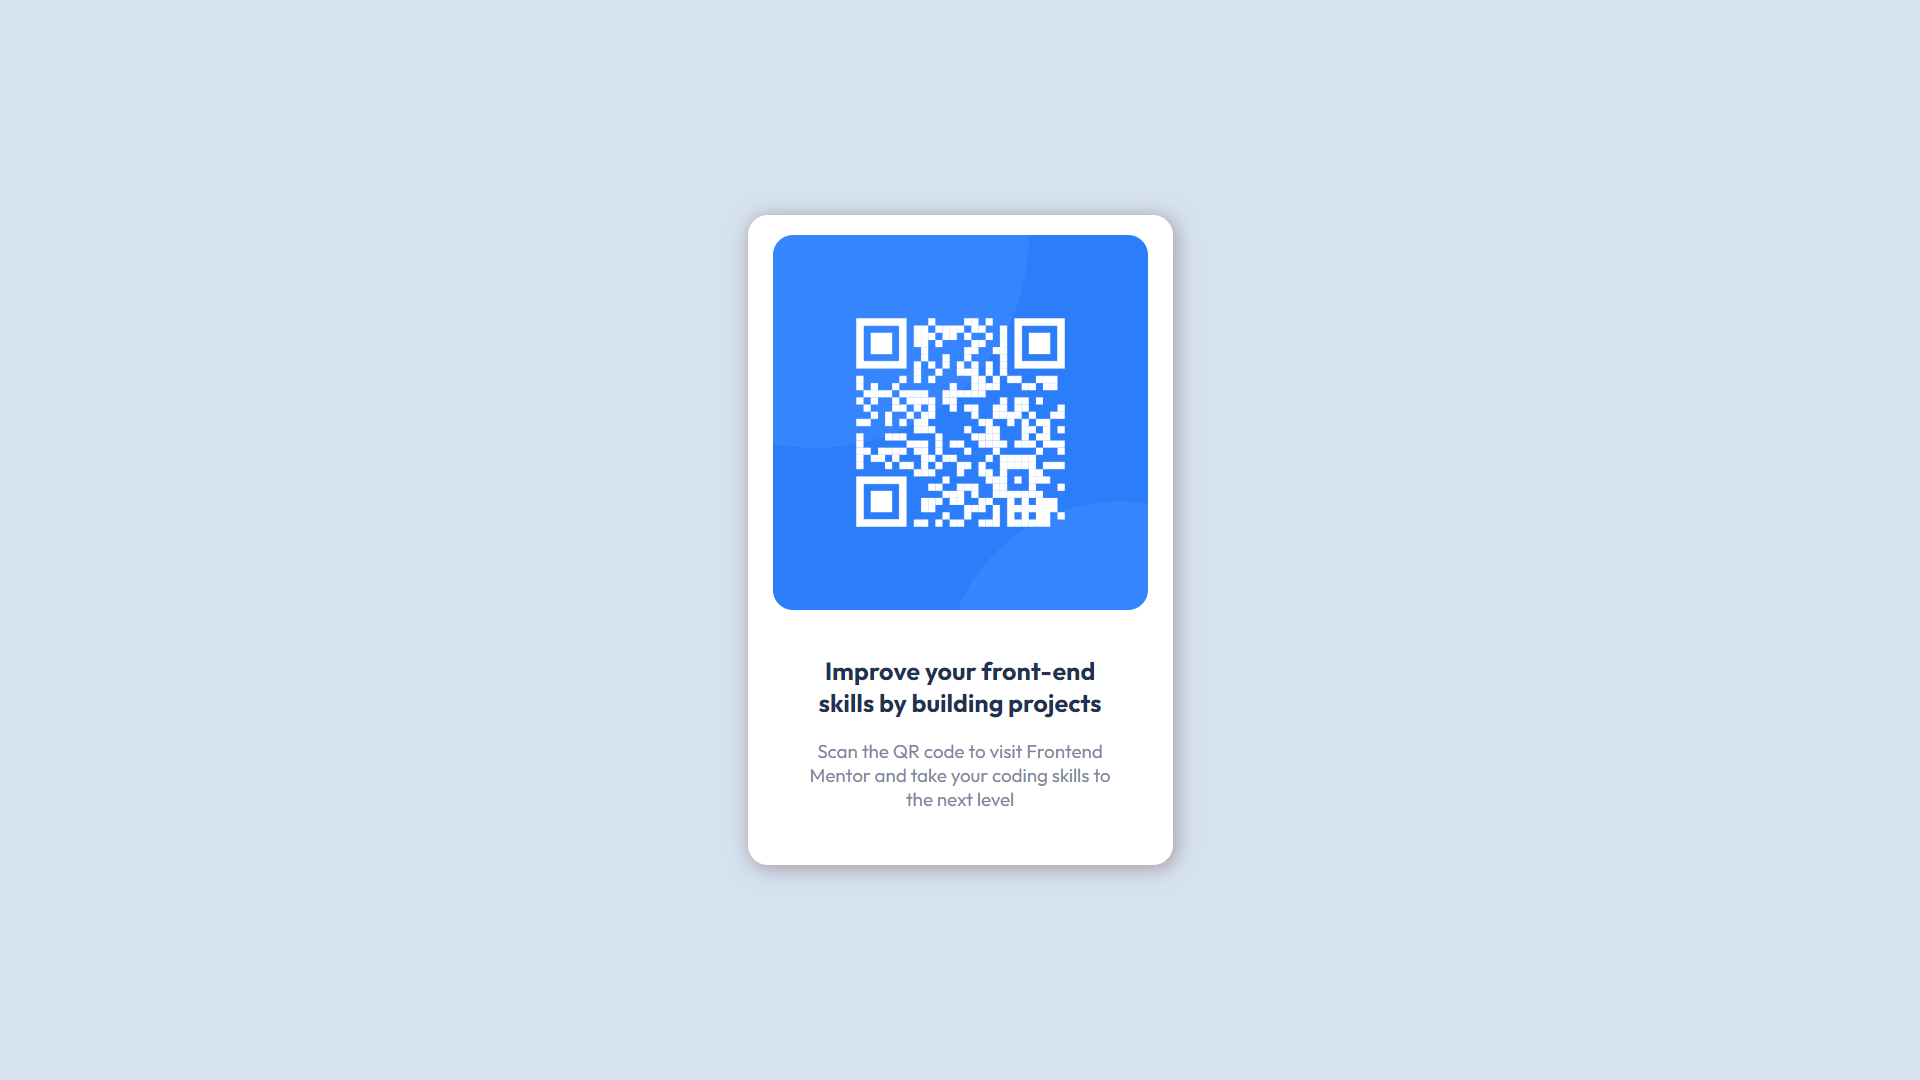
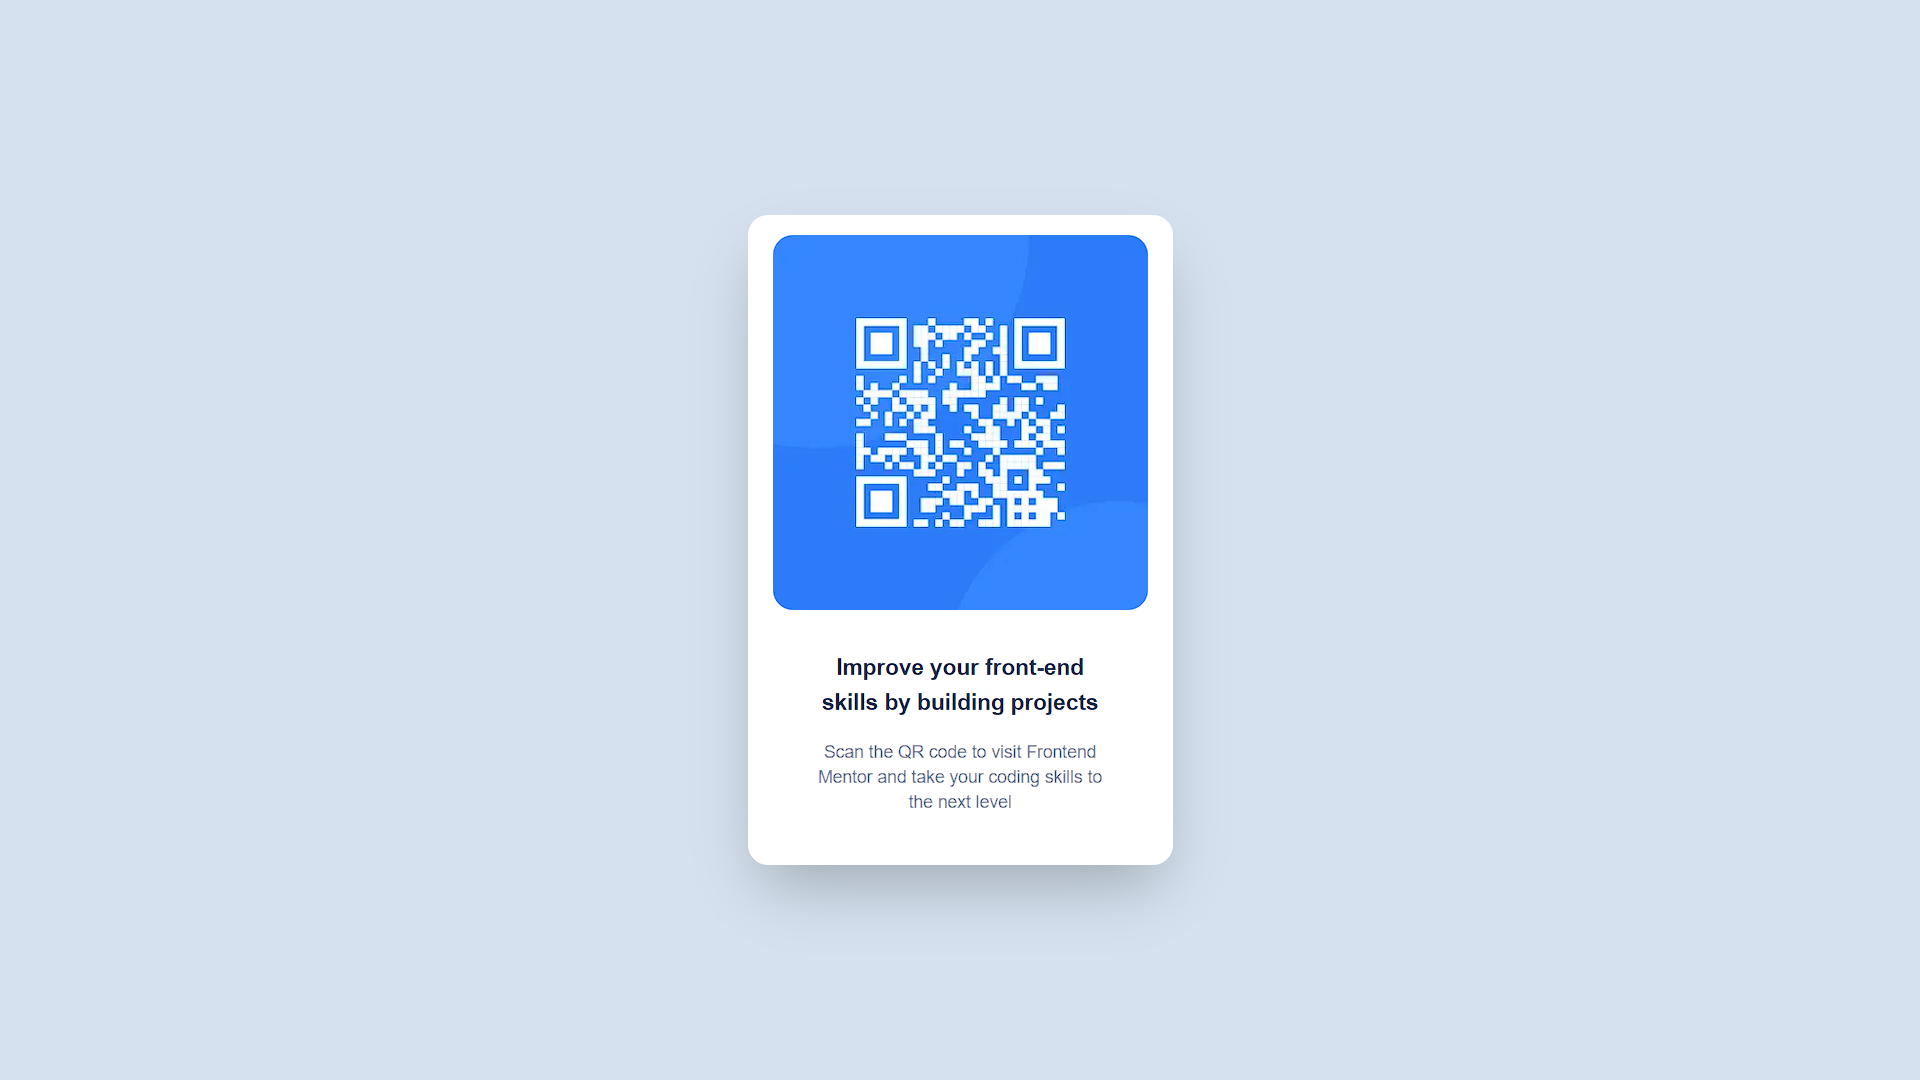
some style change

Changed region(s): [[0.4375, 0.275, 0.5625, 0.4889], [0.4062, 0.6111, 0.5938, 0.7639], [0.4375, 0.7944, 0.5625, 0.825]]

diff --git a/src/components/main/Cards.jsx b/src/components/main/Cards.jsx
@@ -4,15 +4,17 @@ import Link from "next/link"
 function Cards({ title, difficulty, image, link, difficultyText }) {
   return (
     <div className="bg-lightGray grid gap-2 px-4 py-4 rounded-md text-darkGray min-w-[320px] max-w-[450px]">
-      <div className="">
-        <Image
-          src={image}
-          alt=""
-          width={400}
-          height={400}
-          className="hover:scale-105 duration-300 mb-4 object-cover"
-        ></Image>
-      </div>
+      <Link href={link}>
+        <div className="overflow-hidden">
+          <Image
+            src={image}
+            alt=""
+            width={1000}
+            height={1000}
+            className="hover:scale-105 duration-300 mb-4 object-cover w-full"
+          ></Image>
+        </div>
+      </Link>
       <div className="flex items-center justify-between">
         <Link href={link} className="hover:underline">
           <h1 className="text-base sm:text-lg md:text-xl font-semibold">

diff --git a/src/app/layout.js b/src/app/layout.js
@@ -1,7 +1,7 @@
-import { Inter, Ubuntu } from "next/font/google"
+import { PT_Sans } from "next/font/google"
 import "./globals.css"
 
-const inter = Ubuntu({ weight: "400", subsets: ["latin"] })
+const inter = PT_Sans({ weight: "400", subsets: ["latin"] })
 
 export const metadata = {
   title: "Frontend Mentor Solutions",
@@ -11,7 +11,7 @@ export const metadata = {
 export default function RootLayout({ children }) {
   return (
     <html lang="en" className="">
-      <body className= {`${inter.className}`}>{children}</body>
+      <body className={`${inter.className}`}>{children}</body>
     </html>
   )
 }
